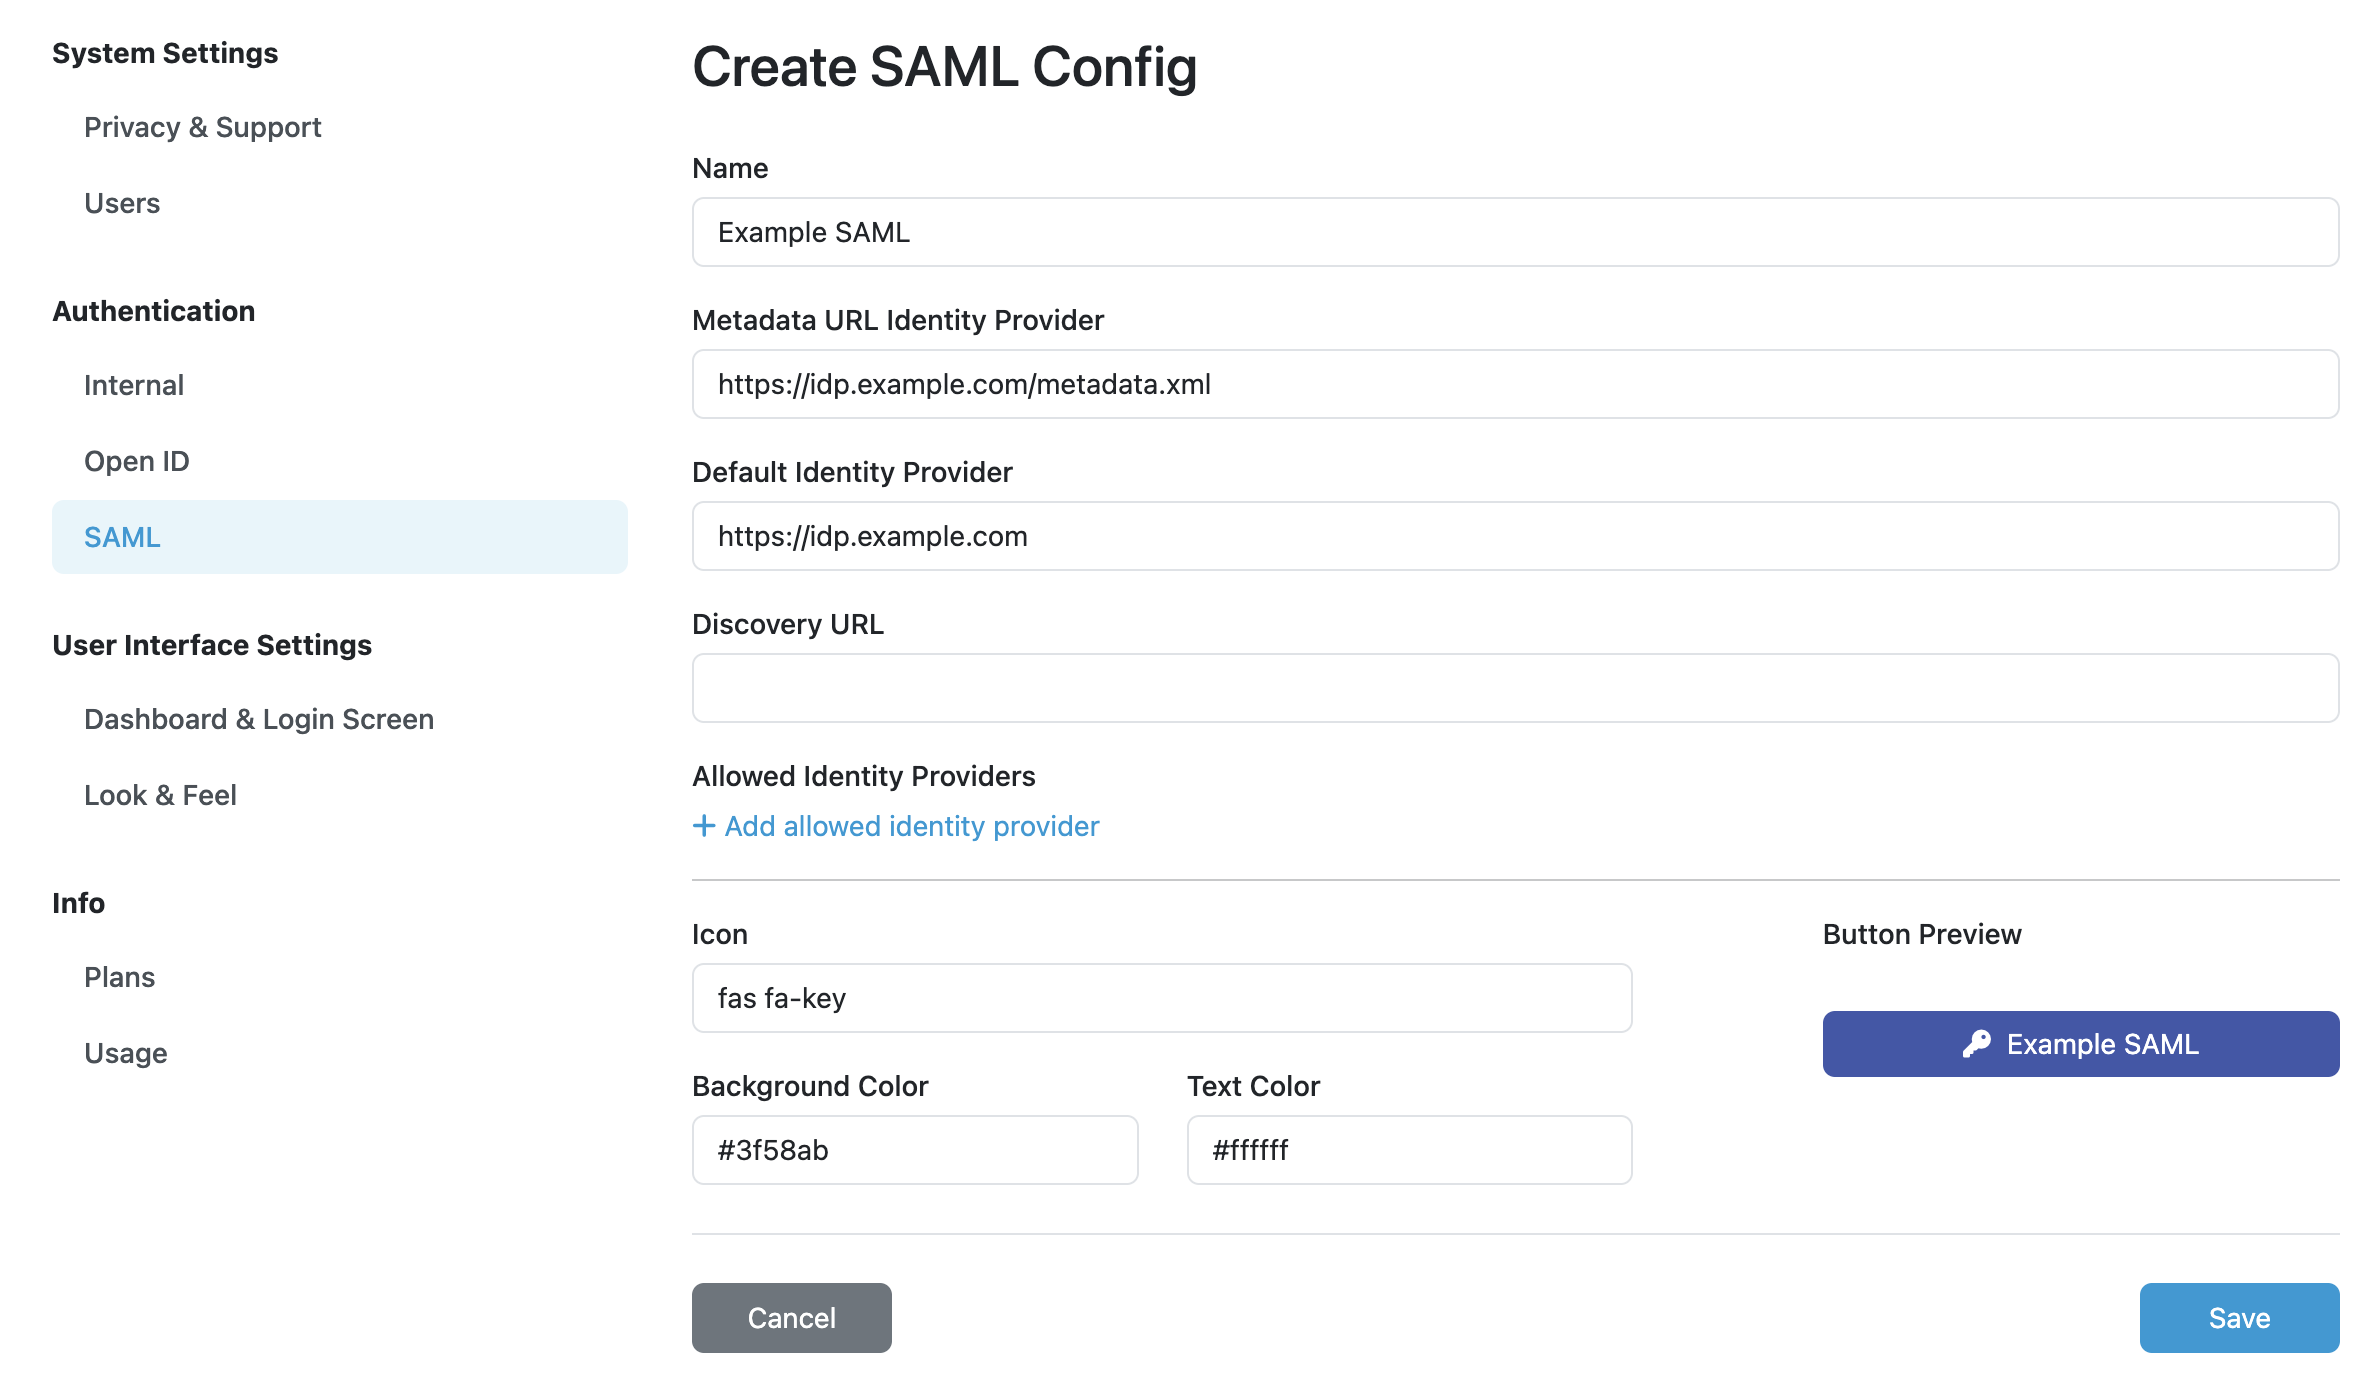
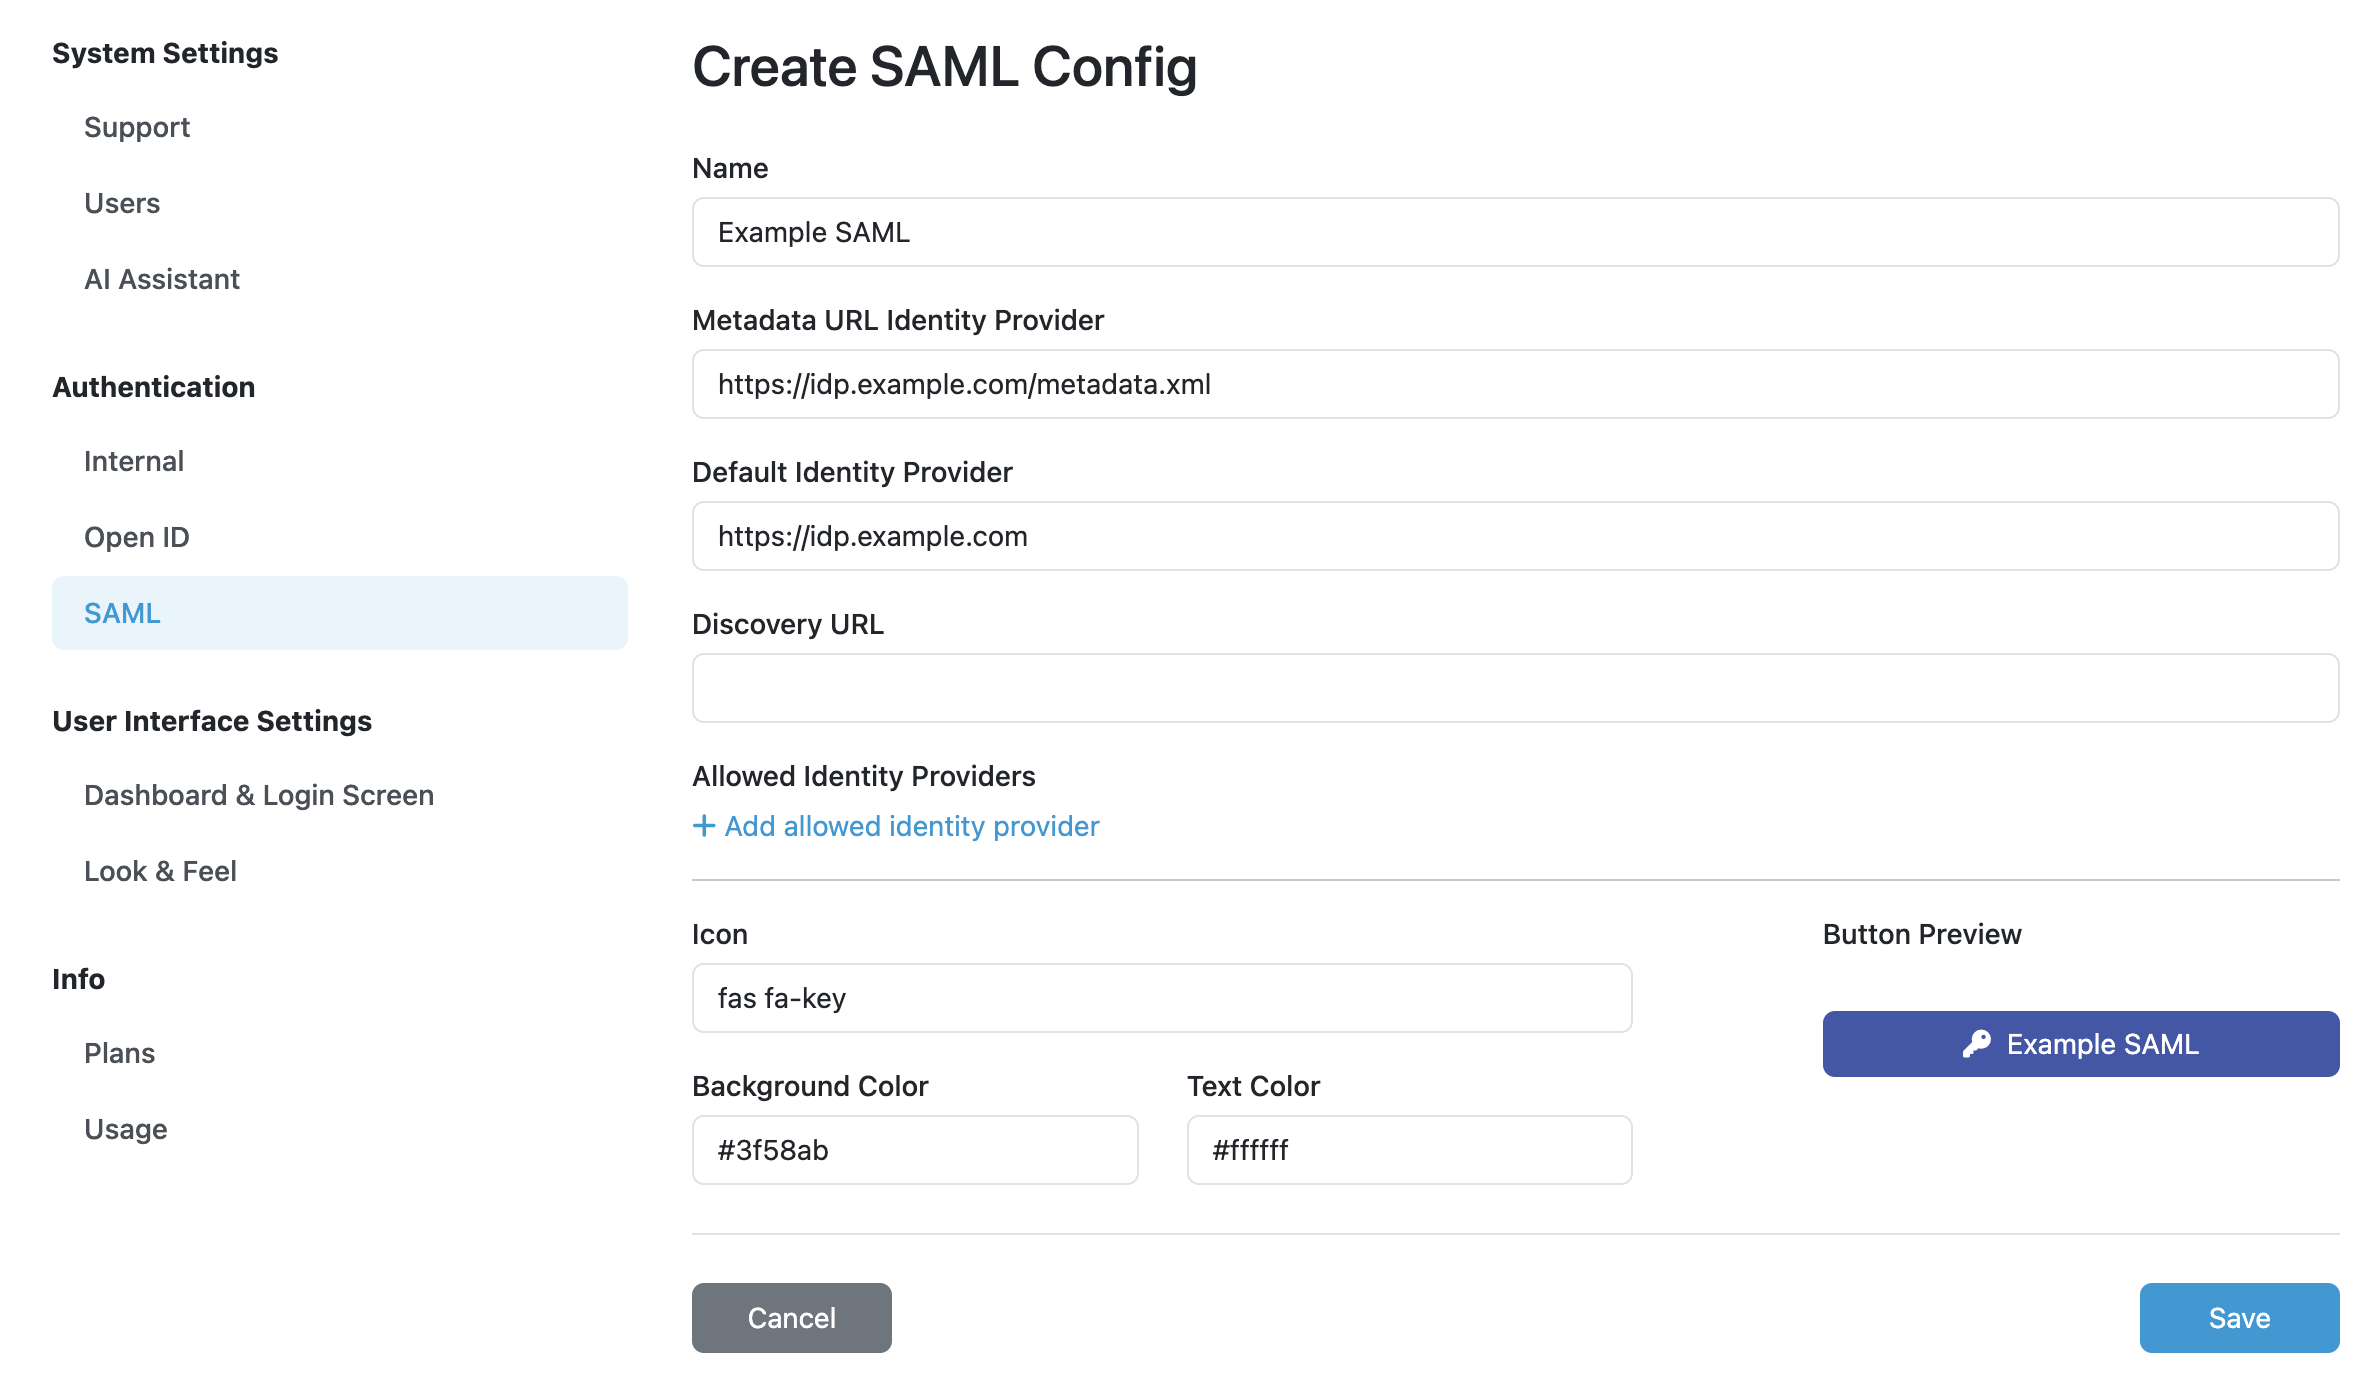
Add 4.13 screenshots

diff --git a/docs/applications/admin-center/settings/authentication/openid.rst b/docs/applications/admin-center/settings/authentication/openid.rst
@@ -10,25 +10,24 @@ Using these settings we can add `Open ID <https://openid.net/>`__ configuration 
 *  Configure the client to provide the following details in ID tokens: ``email``, ``given_name``, ``family_name``
 
 Back in the |project_name| settings, we can fill **Client ID**, **Client Secret**, and **URL** from our OpenID client together with optional **Parameters** (usually not needed). Finally, we can configure how the log-in button will look like by setting **Icon** (by using `Font Awesome <https://fontawesome.com/v6/search?o=r&m=free>`_), **Name**, **Background**, and text/icon **Color**.
-
-.. NOTE::
-
-    After setting a new OpenID service, we should directly test it and verify that the configuration works well. For that, we can simply open our |project_name| instance in a new anonymous window of the web browser.
     
 .. figure:: openid/openid.png
     :width: 700
     
     Example configuration of OpenID service.
 
-.. TODO::
 
-    Update above screenshot, there is now Add automation button
+.. NOTE::
 
-We can use the **Add automation** button to add some extra steps after users use this login option. There are two tabs. Configuration, where we can set up automation using the `Integration SDK <https://integration-sdk.fair-wizard.com/en/latest/>`__ and Logs where we can see logs of the automation. The automation can have its name changed and it can be enabled or disabled.
+    After setting a new OpenID service, we should directly test it and verify that the configuration works well. For that, we can simply open our |project_name| instance in a new anonymous window of the web browser.
 
-.. TODO::
+We can use the **Create automation** button to add some extra steps after users use this login option. There are two tabs. Configuration, where we can set up automation using the `Integration SDK <https://integration-sdk.fair-wizard.com/en/latest/>`__ and Logs where we can see logs of the automation. The automation can have its name changed and it can be enabled or disabled. See details in :ref:`automations`.
 
-    Add Automation Configuration screenshot
+.. figure:: openid/openid-detail.png
+    :width: 700
+    
+    Configured OpenID service (with hidden details).
+
 
 .. NOTE::
 

diff --git a/docs/applications/admin-center/automations/index.rst b/docs/applications/admin-center/automations/index.rst
@@ -9,17 +9,19 @@ Automations
 
 Automations are customizable pieces of code that adjust the behavior of FAIR Wizard when certain events occur. Currently, automations support events when user logs in via Single Sing On (OpenID or SAML).
 
-.. TODO::
+.. figure:: automations/list.png
+    
+    List of Automations with possible actions.
 
-    Add list screenshot
 
 The Automations use the Integration SDK to create and manage automations. The SDK provides a set of classes and methods that allow you to create and manage automations. The SDK is available in the FAIR Wizard application and can be accessed by going to the Open ID or SAML Settings. The SDK has its own `documentation <https://integration-sdk.fair-wizard.com/en/latest/>`__.
 
 From Automations list we can open specific automations or delete them. To create a new automation, go either to :doc:`../settings/authentication/openid` or :doc:`../settings/authentication/saml`.
 
-.. TODO::
+.. figure:: automations/openid-configuration.png
 
-    Add Automation detail screenshot
+    Example of Open ID Automation configuration.
+
 
 Example of OpenID Automation to check if an user should be able to login:
 
@@ -51,3 +53,21 @@ Example of OpenID Automation to check if an user should be able to login:
             email=email,
             user_group_uuids=groups,
         )
+
+.. figure:: automations/openid-logs.png
+
+    Each run of an Automation is logged.
+
+
+Similarly we can set up an Automation for SAML login.
+
+.. figure:: automations/saml-configuration.png
+
+    Example of SAML Automation configuration.
+
+
+.. figure:: automations/saml-logs.png
+
+    Each run of an Automation is logged.
+
+    

diff --git a/docs/applications/admin-center/settings/authentication/saml.rst b/docs/applications/admin-center/settings/authentication/saml.rst
@@ -14,15 +14,14 @@ Based on SAML, FAIR Wizard supports authentication using `Shibboleth <https://ww
     
     Example configuration of SAML service.
 
-.. TODO::
 
-    Update above screenshot, there is now Add automation button
+We can use the **Create automation** button to add some extra steps after users use this login option. There are two tabs. Configuration, where we can set up automation using the `Integration SDK <https://integration-sdk.fair-wizard.com/en/latest/>`__ and Logs where we can see logs of the automation. The automation can have its name changed and it can be enabled or disabled. See details in :ref:`automations`.
 
-We can use the **Add automation** button to add some extra steps after users use this login option. There are two tabs. Configuration, where we can set up automation using the `Integration SDK <https://integration-sdk.fair-wizard.com/en/latest/>`__ and Logs where we can see logs of the automation. The automation can have its name changed and it can be enabled or disabled.
+.. figure:: saml/saml-detail.png
+    :width: 700
+    
+    Configured SAML service (with hidden details).
 
-.. TODO::
-
-    Add Automation Configuration screenshot
 
 .. NOTE::
 

diff --git a/docs/applications/admin-center/settings/system/ai-assistant.rst b/docs/applications/admin-center/settings/system/ai-assistant.rst
@@ -5,20 +5,17 @@ AI Assistant is FAIR Wizard wide feature that allows you to interact with the AI
 
 The AI Assistant is available in the bottom left corner of the screen. The AI Assistant will appear on the right side, where you can interact with it.
 
+.. figure:: ai-assistant/ai-assistant.png
+    
+    AI Assistant.
+
+
 The AI Assistant does not have access to any FAIR Wizard data. Its knowledge is based on the information available in this FAIR Wizard documentation. The AI Assistant is designed to help you navigate FAIR Wizard and provide you with the information you need to complete your tasks.
 
 The AI Assistant can be turned off in the settings.
 
-.. TODO::
-
-    Add screenshots
-
-.. .. figure:: ai-assistant/ai-assistant.png
-    :width: 700
-    
-    AI Assistant.
-
-.. .. figure:: ai-assistant/ai-assistant-settings.png
+.. figure:: ai-assistant/settings.png
     :width: 700
     
     AI Assistant settings.
+

diff --git a/docs/more/development/document-templates/steps/pandoc.rst b/docs/more/development/document-templates/steps/pandoc.rst
@@ -26,12 +26,6 @@ Options
 -  (optional, experimental) ``filters`` = additional `Pandoc filters <https://pandoc.org/MANUAL.html#general-options>`__ to be used, need to be located under ``/pandoc/filters`` directory (or other set by ``PANDOC_FILTERS`` environment variable), comma separated
 -  (optional, experimental) ``template`` = `Pandoc template <https://pandoc.org/MANUAL.html#general-options>`__ to be used, need to be located under ``/pandoc/templates`` directory (or other set by ``PANDOC_TEMPLATES`` environment variable)
 
-Notes
-=====
-
--  Pandoc filter ``pandoc-docx-pagebreakpy`` can be found in `addons <../../addons>`__ directory.
--  Pandoc filter ``pandoc-docx-pagebreakpy`` will be removed with the next template metamodel version, use `` for the ``filters`` option instead.
-
 Example
 =======
 
